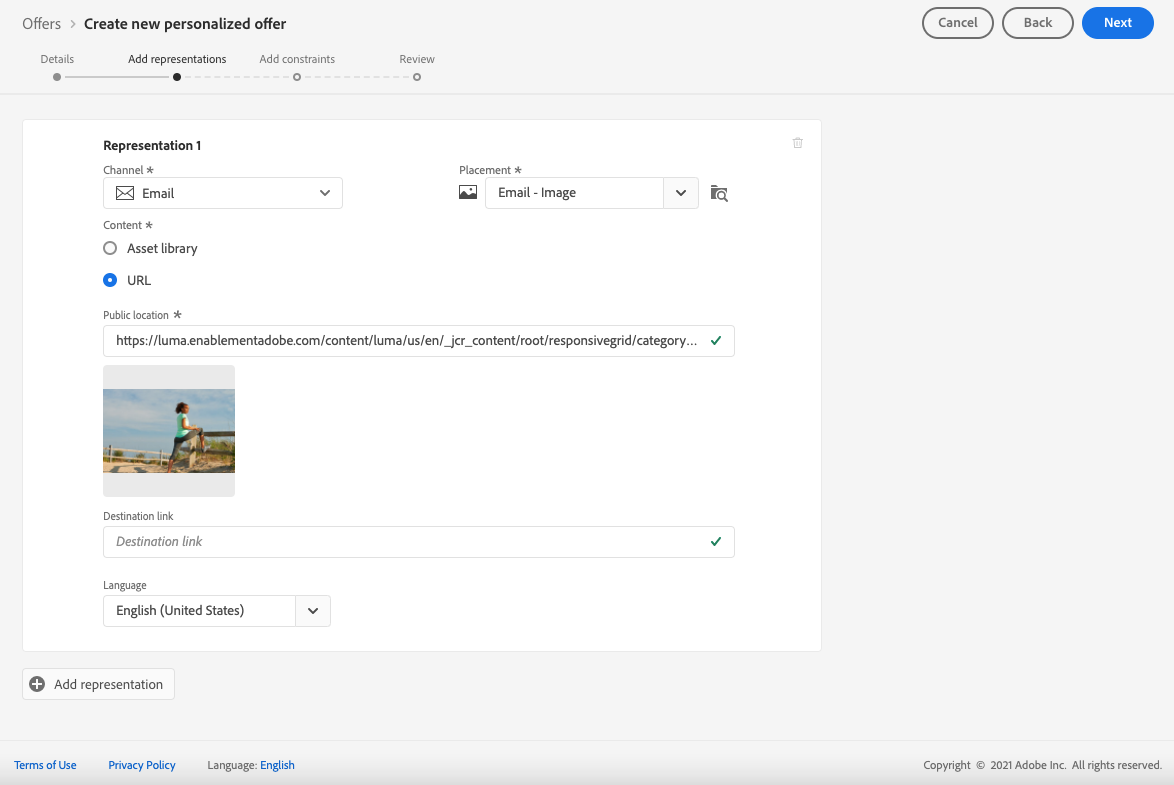
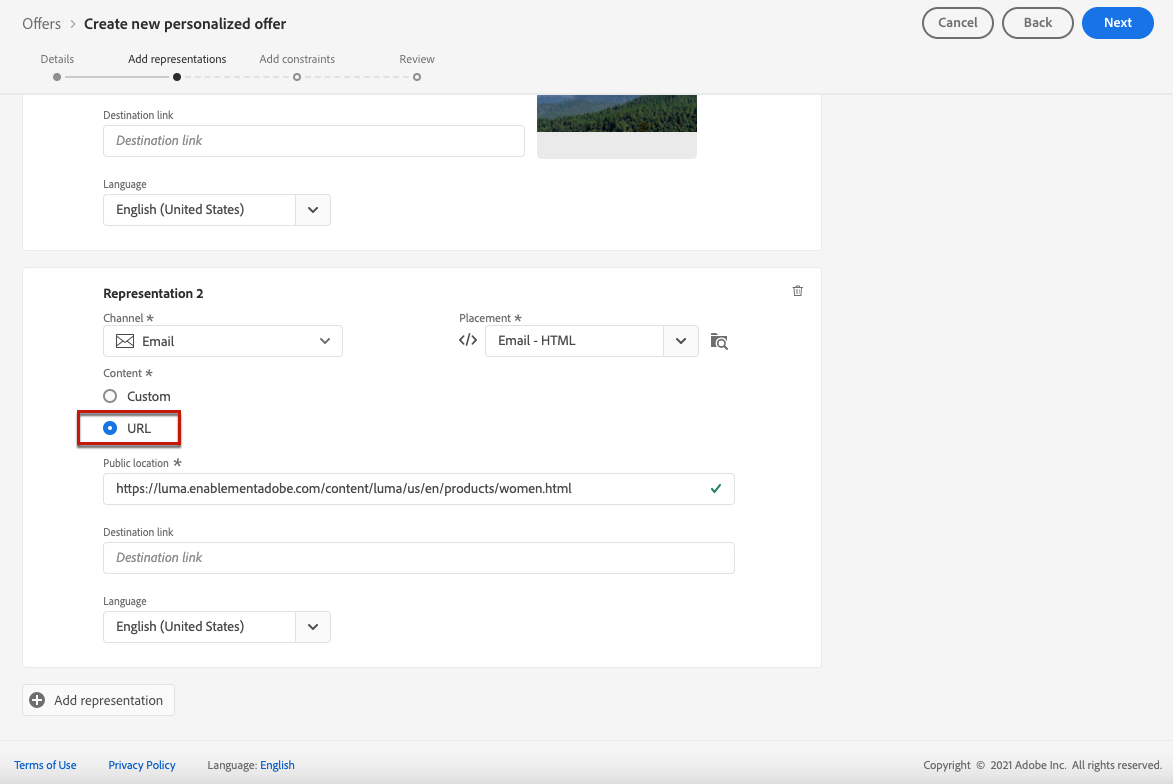
representation flow small edits

diff --git a/help/offer-library/creating-personalized-offers.md b/help/offer-library/creating-personalized-offers.md
@@ -56,11 +56,11 @@ To add and configure one or multiple representations to your offer, follow the s
 
     Only the available placements for the selected channel display in the **[!UICONTROL Placement]** drop-down list.
 
-1. Select a placement from the list or use the button next to the **[!UICONTROL Placement]** drop-down list to browse all the placements.
+1. Select a placement from the list, or use the button next to the **[!UICONTROL Placement]** drop-down list to browse all the placements.
 
     ![](../assets/browse-button-placements.png)
 
-1. Here you can filter the placements according to their channel and/or content type. Choose a placement and click **[!UICONTROL Select]**.
+    Then you can still filter the placements according to their channel and/or content type. Choose a placement and click **[!UICONTROL Select]**.
 
     ![](../assets/browse-placements.png)
 
@@ -70,41 +70,41 @@ To add and configure one or multiple representations to your offer, follow the s
     >
     >Only content corresponding to the placement's content type is available for use.
     
-1. If the selected placement is of image-type, you can add content coming from the Adobe Experience Cloud Asset library, a centralized repository of assets provided by [!DNL Adobe Experience Manager Assets Essentials].
+    * If the selected placement is image-type, you can add content coming from the Adobe Experience Cloud Asset library, a centralized repository of assets provided by [!DNL Adobe Experience Manager Assets Essentials].
 
-    >[!NOTE]
-    >
-    > To work with [Adobe Experience Manager Assets Essentials](https://experienceleague.adobe.com/docs/experience-manager-assets-essentials/help/introduction.html?lang=en){target="_blank"}, you need to deploy [!DNL Assets Essentials] for your organization and make sure that users are a part of the **Assets Essentials Consumer Users** or/and **Assets Essentials Users** Product profiles. Learn more on [this page](https://experienceleague.adobe.com/docs/experience-manager-assets-essentials/help/deploy-administer.html){target="_blank"}.
+        >[!NOTE]
+        >
+        > To work with [Adobe Experience Manager Assets Essentials](https://experienceleague.adobe.com/docs/experience-manager-assets-essentials/help/introduction.html?lang=en){target="_blank"}, you need to deploy [!DNL Assets Essentials] for your organization and make sure that users are a part of the **Assets Essentials Consumer Users** or/and **Assets Essentials Users** Product profiles. Learn more on [this page](https://experienceleague.adobe.com/docs/experience-manager-assets-essentials/help/deploy-administer.html){target="_blank"}.
     
-    Choose the **[!UICONTROL Asset library]** option and select **[!UICONTROL Browse]**.
+        Choose the **[!UICONTROL Asset library]** option and select **[!UICONTROL Browse]**.
 
-    ![](../assets/offer-browse-asset-library.png)
+        ![](../assets/offer-browse-asset-library.png)
 
-1. Browse the assets to select the image of your choice and click **[!UICONTROL Select]**.
+        Browse the assets to select the image of your choice and click **[!UICONTROL Select]**.
 
-    ![](../assets/offer-select-asset.png)
+        ![](../assets/offer-select-asset.png)
 
-1. You can specify a **[!UICONTROL Destination link]** if you want to associate your content with a specific path.
+        You can specify a **[!UICONTROL Destination link]** if you want to associate your content with a specific path.
     
-    <!--either copying the path displayed in the **[!UICONTROL Public location]** field, either entering an URL in the corresponding field.-->
+        <!--either copying the path displayed in the **[!UICONTROL Public location]** field, either entering an URL in the corresponding field.-->
 
-    ![](../assets/offer-destination-link.png)
+        ![](../assets/offer-destination-link.png)
 
-1. To add image content from an external public location, select **[!UICONTROL URL]**, then enter the URL address of the content to add.
+    * To add content from an external public location, select **[!UICONTROL URL]**, then enter the URL address of the content to add.
 
-    <!--Make sure that the content you are adding corresponds to the selected placement's content type.-->
+        ![](../assets/offer-content-url.png)
 
-    ![](../assets/offer-content-url.png)
+    * You can also insert text-type content when selecting a compatible placement. Select the **[!UICONTROL Custom]** option and type the text that will display in the offer.
 
-1. You can also insert text-type content when selecting a compatible placement: select the **[!UICONTROL Custom]** option and type the text that will display in the offer.
+        ![](../assets/offer-text-content.png)
 
-    >[!NOTE]
-    >
-    >This option is not available for image-type placements.
-
-    ![](../assets/offer-text-content.png)
+        >[!NOTE]
+        >
+        >This option is not available for image-type placements.
 
 1. To add another representation, use the **[!UICONTROL Add representation]** button and add as many representations as needed.
+
+    ![](../assets/offer-add-representation.png)
 
 1. Once you added all your representations, select **[!UICONTROL Next]**.
 
